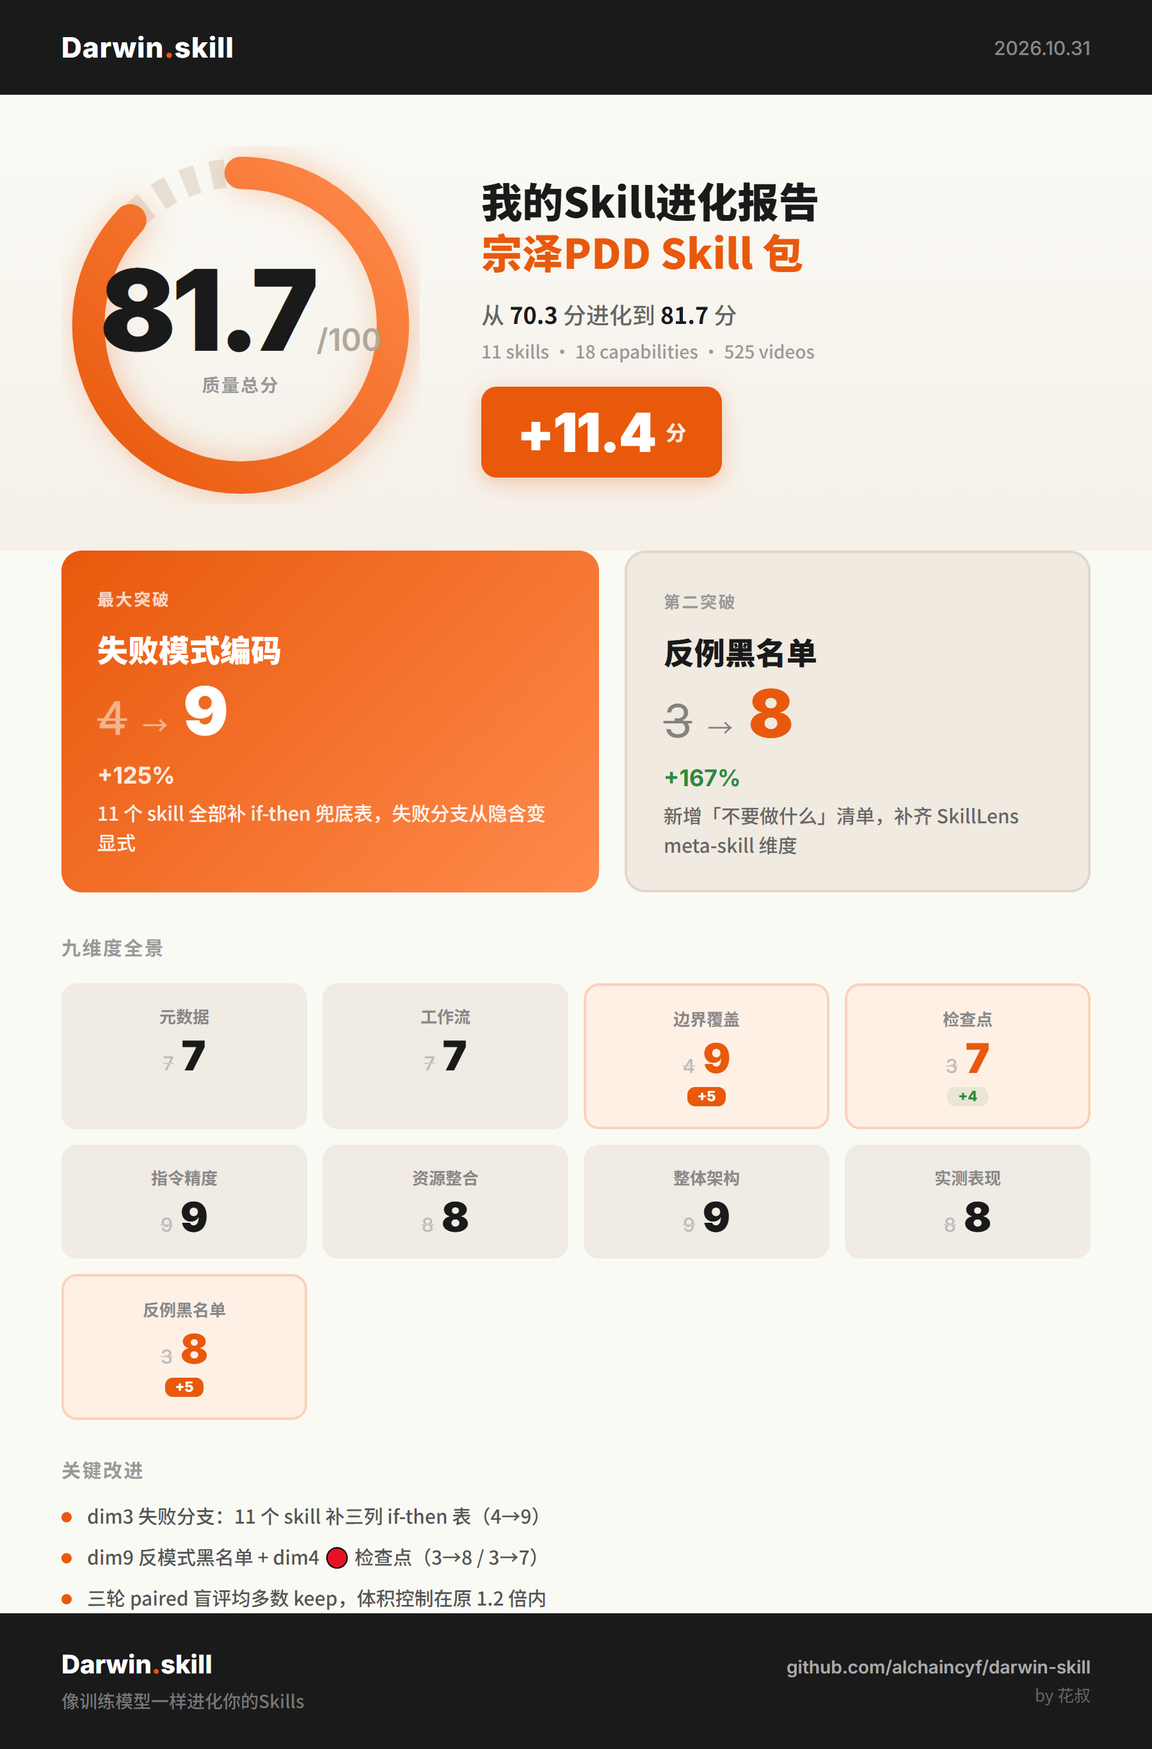
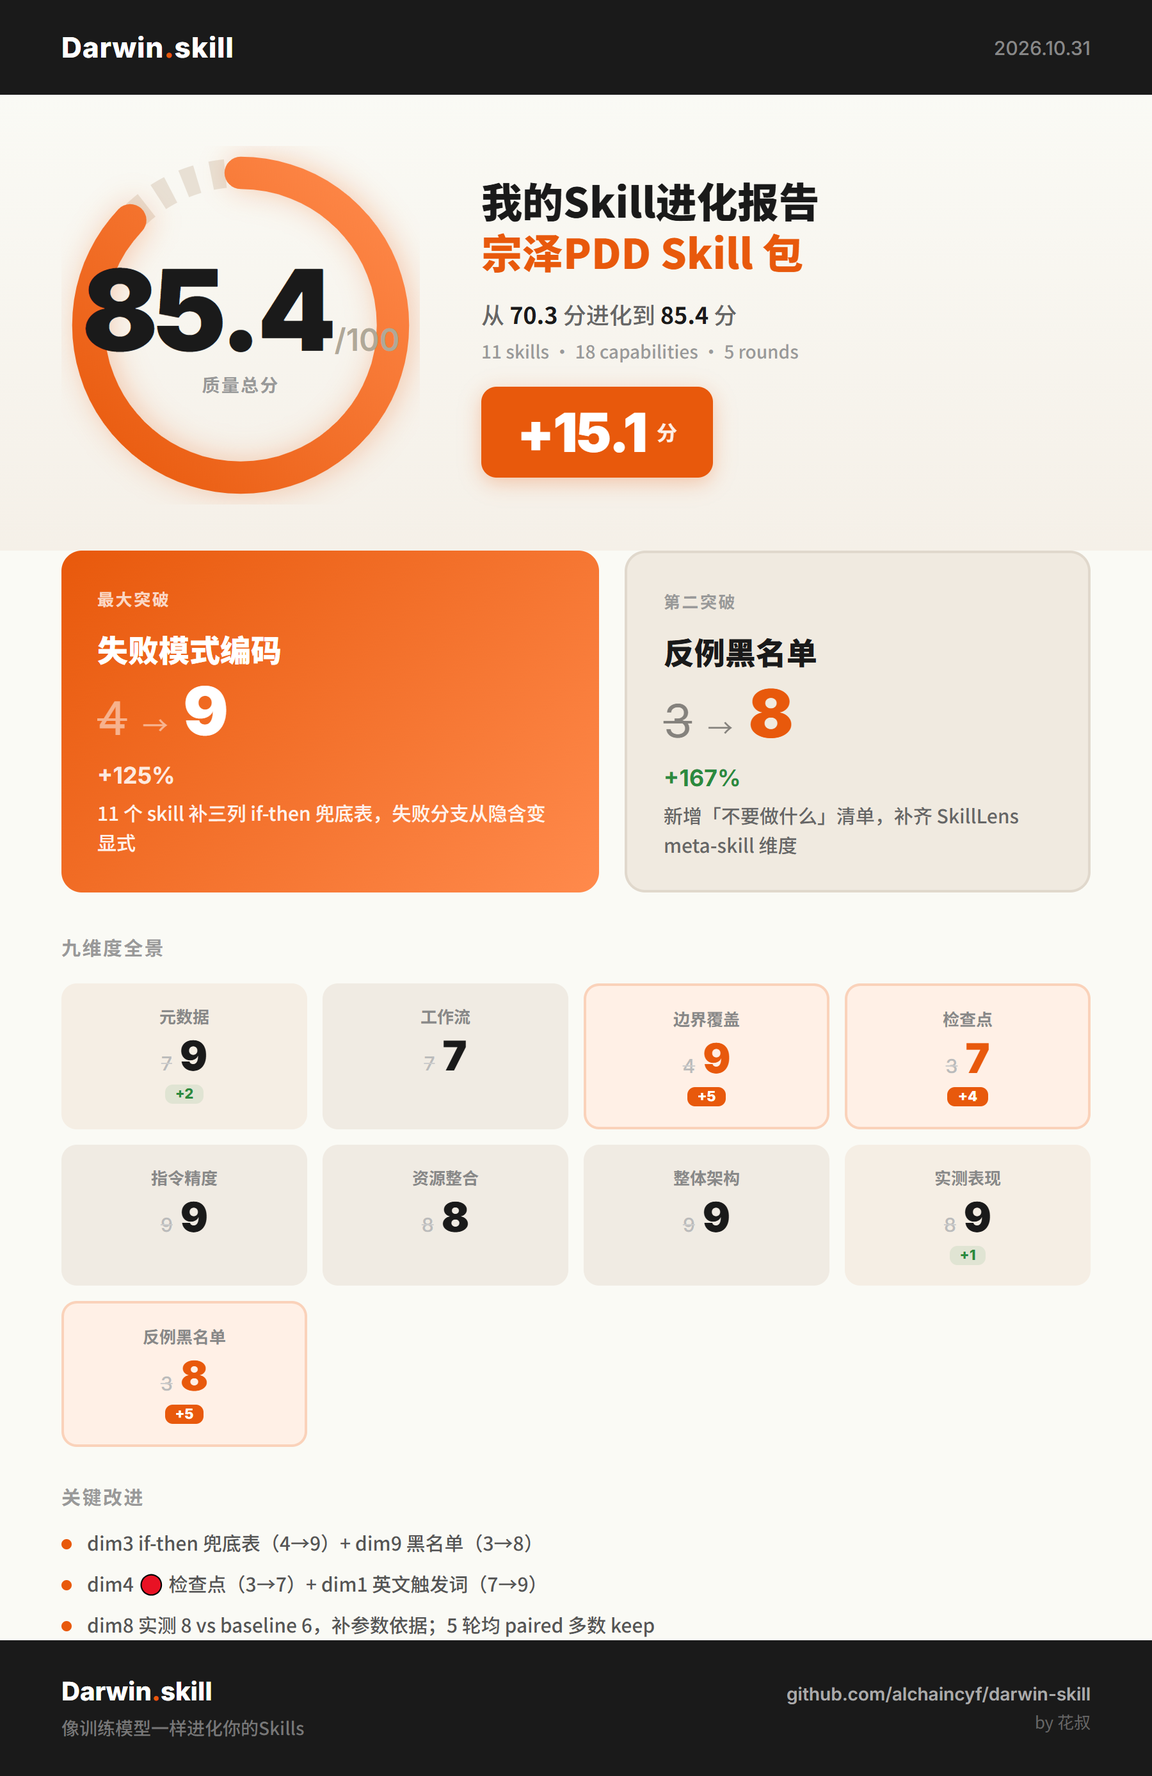
merge: darwin rounds 4-5 (dim8 full_test + dim1 english triggers)

diff --git a/darwin/result-card.html b/darwin/result-card.html
@@ -469,7 +469,7 @@
       </svg>
       <div class="ring-center">
         <div>
-          <span class="ring-score" data-field="score-after">81.7</span><span class="ring-max">/100</span>
+          <span class="ring-score" data-field="score-after">85.4</span><span class="ring-max">/100</span>
         </div>
         <div class="ring-label">质量总分</div>
       </div>
@@ -481,11 +481,11 @@
         <span class="hero-skill-name" data-field="skill-name">宗泽PDD Skill 包</span>
       </div>
       <div class="hero-journey">
-        从 <strong data-field="score-before">70.3</strong> 分进化到 <strong>81.7</strong> 分<br>
-        <span style="color:#999;font-size:14px;" data-field="skill-id">11 skills · 18 capabilities · 525 videos</span>
+        从 <strong data-field="score-before">70.3</strong> 分进化到 <strong>85.4</strong> 分<br>
+        <span style="color:#999;font-size:14px;" data-field="skill-id">11 skills · 18 capabilities · 5 rounds</span>
       </div>
       <div class="delta-badge">
-        <span data-field="score-delta">+11.4</span>
+        <span data-field="score-delta">+15.1</span>
         <span class="delta-badge-label">分</span>
       </div>
     </div>
@@ -502,7 +502,7 @@
         <span class="breakthrough-to" data-field="top1-to">9</span>
       </div>
       <div class="breakthrough-pct" data-field="top1-pct">+125%</div>
-      <div class="breakthrough-story" data-field="top1-story">11 个 skill 全部补 if-then 兜底表，失败分支从隐含变显式</div>
+      <div class="breakthrough-story" data-field="top1-story">11 个 skill 补三列 if-then 兜底表，失败分支从隐含变显式</div>
     </div>
     <div class="breakthrough-card secondary">
       <div class="breakthrough-label">第二突破</div>
@@ -521,51 +521,15 @@
   <div class="dims-section">
     <div class="dims-header">九维度全景</div>
     <div class="dims-grid">
-<div class="dim-cell ">
-        <div class="dim-name">元数据</div>
-        <div class="dim-score-row"><span class="dim-old-score">7</span><span class="dim-score">7</span></div>
-        
-      </div>
-<div class="dim-cell ">
-        <div class="dim-name">工作流</div>
-        <div class="dim-score-row"><span class="dim-old-score">7</span><span class="dim-score">7</span></div>
-        
-      </div>
-<div class="dim-cell hot">
-        <div class="dim-name">边界覆盖</div>
-        <div class="dim-score-row"><span class="dim-old-score">4</span><span class="dim-score">9</span></div>
-        <span class="dim-arrow up-big">+5</span>
-      </div>
-<div class="dim-cell hot">
-        <div class="dim-name">检查点</div>
-        <div class="dim-score-row"><span class="dim-old-score">3</span><span class="dim-score">7</span></div>
-        <span class="dim-arrow up-small">+4</span>
-      </div>
-<div class="dim-cell ">
-        <div class="dim-name">指令精度</div>
-        <div class="dim-score-row"><span class="dim-old-score">9</span><span class="dim-score">9</span></div>
-        
-      </div>
-<div class="dim-cell ">
-        <div class="dim-name">资源整合</div>
-        <div class="dim-score-row"><span class="dim-old-score">8</span><span class="dim-score">8</span></div>
-        
-      </div>
-<div class="dim-cell ">
-        <div class="dim-name">整体架构</div>
-        <div class="dim-score-row"><span class="dim-old-score">9</span><span class="dim-score">9</span></div>
-        
-      </div>
-<div class="dim-cell ">
-        <div class="dim-name">实测表现</div>
-        <div class="dim-score-row"><span class="dim-old-score">8</span><span class="dim-score">8</span></div>
-        
-      </div>
-<div class="dim-cell hot">
-        <div class="dim-name">反例黑名单</div>
-        <div class="dim-score-row"><span class="dim-old-score">3</span><span class="dim-score">8</span></div>
-        <span class="dim-arrow up-big">+5</span>
-      </div>
+<div class="dim-cell warm"><div class="dim-name">元数据</div><div class="dim-score-row"><span class="dim-old-score">7</span><span class="dim-score">9</span></div><span class="dim-arrow up-small">+2</span></div>
+<div class="dim-cell "><div class="dim-name">工作流</div><div class="dim-score-row"><span class="dim-old-score">7</span><span class="dim-score">7</span></div></div>
+<div class="dim-cell hot"><div class="dim-name">边界覆盖</div><div class="dim-score-row"><span class="dim-old-score">4</span><span class="dim-score">9</span></div><span class="dim-arrow up-big">+5</span></div>
+<div class="dim-cell hot"><div class="dim-name">检查点</div><div class="dim-score-row"><span class="dim-old-score">3</span><span class="dim-score">7</span></div><span class="dim-arrow up-big">+4</span></div>
+<div class="dim-cell "><div class="dim-name">指令精度</div><div class="dim-score-row"><span class="dim-old-score">9</span><span class="dim-score">9</span></div></div>
+<div class="dim-cell "><div class="dim-name">资源整合</div><div class="dim-score-row"><span class="dim-old-score">8</span><span class="dim-score">8</span></div></div>
+<div class="dim-cell "><div class="dim-name">整体架构</div><div class="dim-score-row"><span class="dim-old-score">9</span><span class="dim-score">9</span></div></div>
+<div class="dim-cell warm"><div class="dim-name">实测表现</div><div class="dim-score-row"><span class="dim-old-score">8</span><span class="dim-score">9</span></div><span class="dim-arrow up-small">+1</span></div>
+<div class="dim-cell hot"><div class="dim-name">反例黑名单</div><div class="dim-score-row"><span class="dim-old-score">3</span><span class="dim-score">8</span></div><span class="dim-arrow up-big">+5</span></div>
     </div>
   </div>
 
@@ -573,9 +537,9 @@
   <div class="summary-section">
     <div class="summary-header">关键改进</div>
     <div class="summary-items">
-      <div class="summary-item" data-field="improve-1">dim3 失败分支：11 个 skill 补三列 if-then 表（4→9）</div>
-      <div class="summary-item" data-field="improve-2">dim9 反模式黑名单 + dim4 🔴 检查点（3→8 / 3→7）</div>
-      <div class="summary-item" data-field="improve-3">三轮 paired 盲评均多数 keep，体积控制在原 1.2 倍内</div>
+      <div class="summary-item" data-field="improve-1">dim3 if-then 兜底表（4→9）+ dim9 黑名单（3→8）</div>
+      <div class="summary-item" data-field="improve-2">dim4 🔴 检查点（3→7）+ dim1 英文触发词（7→9）</div>
+      <div class="summary-item" data-field="improve-3">dim8 实测 8 vs baseline 6，补参数依据；5 轮均 paired 多数 keep</div>
     </div>
   </div>
 

diff --git a/darwin/optimize4.py b/darwin/optimize4.py
@@ -1,0 +1,74 @@
+# -*- coding: utf-8 -*-
+"""Round 4 (dim8): add short rationale for key thresholds, based on judge feedback."""
+from pathlib import Path
+
+ROOT = Path(__file__).parent.parent
+SKILLS = ROOT / "skills"
+
+RATIONALE = {
+"qilian-sanjieduan": [
+ "500 曝光：系统给新链接的最小测试池，低于它无法判断赛道宽度。",
+ "3 天沉淀：平台数据有 3 天滞后，短于 3 天会把波动当成趋势。",
+ "保本 85%：留出提投产回本空间，又不至于深亏到无法修正。",
+],
+"qilian-wuxiang-zhunbei": [
+ "上下 10% 毛利：覆盖相邻价格带，又不至于跨档导致数据失真。",
+ "五项串行：后一步依赖前一步的数据，跳步会把测试结果误判。",
+],
+"ceijia-celianjie": [
+ "3% 降毛利：约等于一个价格档位的最小可测差；降定价会放大毛利波动。",
+ "3 天间隔：给系统重新匹配赛道的时间，短于 3 天测不出真实反应。",
+],
+"chujia-xingshi-xuanze": [
+ "成交出价买精度：转化率优先，适合带功能性的非标品。",
+ "投产比买 GMV：适合成型后收割，起链接期直接用会丢精度托底。",
+],
+"lengqidong-chujia-fudu": [
+ "5% × 4h：小幅高频，避免被系统判定为异常操作。",
+ "8% × 1.5 天：多次小幅无效后，用更大间隔换探索空间。",
+],
+"xiane-shezhi-fangdakai": [
+ "100–150 / 250–300 / 400+：亏损越深限额越低，先控速再谈放量。",
+ "由小变大：只有临近保本才敢多放，防止一次性花冒。",
+],
+"chesun-juece-baoben": [
+ "85–90% 微亏：离保本近，掉量风险小，回本只需一轮提投产。",
+ "75–80% 一般亏：仍保留回本空间，适合多数中腰部。",
+ "50% 巨亏：接近一半利润，只适合资金极厚的冲量或清仓。",
+],
+"titouchan-jiezou": [
+ "5–10%：幅度太大会被判定异常操作，太小则提不动。",
+ "花费降幅 ≥ 幅度×3：超过等比例掉量，才说明赛道真的站住。",
+ "3 天观测：平台数据有滞后，短于 3 天容易把波动当趋势。",
+],
+"cuofeng-lache": [
+ "1.05–1.2 倍：覆盖净扣费波动区间，又不至于在错峰期亏太多。",
+ "28 天：给系统重新学习出价与人群的时间。",
+],
+"zhitongche-shuju-zhibiao": [
+ "前期转化 / 中期占比 / 后期点击率：对应比价机制的三个阶段。",
+ "五项指标：覆盖量、质、成本、转化、出价竞争力，缺一项就会误判。",
+],
+"zongze-pdd-quanxitu": [
+ "最多 2 张能力卡：避免上下文过载与多卡结论冲突。",
+],
+}
+
+
+def main():
+    changed = 0
+    for slug, items in RATIONALE.items():
+        p = SKILLS / slug / "SKILL.md"
+        if not p.exists():
+            continue
+        text = p.read_text(encoding="utf-8")
+        if "## 参数依据" in text:
+            continue
+        block = "\n## 参数依据（为什么是这些数）\n\n" + "\n".join(f"- {x}" for x in items) + "\n"
+        p.write_text(text.rstrip() + "\n" + block, encoding="utf-8")
+        changed += 1
+    print(f"round 4: {changed} skills updated")
+
+
+if __name__ == "__main__":
+    main()

diff --git a/darwin/optimize5.py b/darwin/optimize5.py
@@ -1,0 +1,40 @@
+# -*- coding: utf-8 -*-
+"""Round 5 (dim1): add English trigger lines to frontmatter descriptions."""
+import re
+from pathlib import Path
+
+ROOT = Path(__file__).parent.parent
+SKILLS = ROOT / "skills"
+
+EN = {
+"zongze-pdd-quanxitu": "Use when a question involves Pinduoduo paid traffic: launching a listing, price testing, bid type, budget caps, loss tolerance, ROAS raising, off-peak switching, ad metrics, price competition, listing splits, or custom/wholesale bidding.",
+"qilian-sanjieduan": "Use when launching a new Pinduoduo listing: the three stages (link recognition -> bid recognition -> paid activation) and their pass criteria (500 impressions, 400/day spend, 85% of break-even).",
+"qilian-wuxiang-zhunbei": "Use before launching a listing: five serial preparations (product screening, competitor price bands, product testing, price testing, listing testing) and what each step must output.",
+"ceijia-celianjie": "Use when testing price versus testing listing: price test holds everything but price equal, listing test varies everything but price; refine with 3% gross-margin cuts every 3 days.",
+"chujia-xingshi-xuanze": "Use when choosing a bid type: conversion bid buys precision, ROAS bid buys GMV; pick the direction (low-to-high or high-to-low) and the switch point.",
+"lengqidong-chujia-fudu": "Use for cold-start bid steps: 5% every 4 hours up to 3 times a day, then 8% every 1-1.5 days when 500 impressions are not reached.",
+"xiane-shezhi-fangdakai": "Use for budget caps: 100-150 below 70% of break-even, 250-300 at 85%, 400+ near break-even; release caps from small to large.",
+"chesun-juece-baoben": "Use when deciding loss tolerance: profit > break-even > slight loss (85-90%) > normal loss (75-80%) > heavy loss (50%); never touch product cost.",
+"titouchan-jiezou": "Use when raising ROAS: 5-10% per step, observe 3 days (2-5), keep going if spend drop is at least 3x the raise, otherwise hold the floor.",
+"cuofeng-lache": "Use for off-peak switching versus pull-push: switch the worst-spend hours to conversion bid at 1.05-1.2x net CPC; after two failures wait 28 days or use pull-push.",
+"zhitongche-shuju-zhibiao": "Use for ad data priorities: spend rate, impressions, CTR, CVR, paid-impression share; early CVR/share, mid share, late CTR.",
+}
+
+changed = 0
+for slug, line in EN.items():
+    p = SKILLS / slug / "SKILL.md"
+    if not p.exists():
+        continue
+    text = p.read_text(encoding="utf-8")
+    if line in text:
+        continue
+    m = re.search(r"(description: \|\n(?:  .+\n)+)", text)
+    if not m:
+        continue
+    block = m.group(1)
+    new_block = block + "  " + line + "\n"
+    text = text.replace(block, new_block, 1)
+    p.write_text(text, encoding="utf-8")
+    changed += 1
+
+print(f"round 5: {changed} skills updated")

diff --git a/skills/qilian-sanjieduan/SKILL.md b/skills/qilian-sanjieduan/SKILL.md
@@ -2,6 +2,7 @@
 name: qilian-sanjieduan
 description: |
   起链接全流程怎么做；起链接分几个阶段；新链接怎么起步。按链接识别→出价识别→付费激活三段推进起链接。
+  Use when launching a new Pinduoduo listing: the three stages (link recognition -> bid recognition -> paid activation) and their pass criteria (500 impressions, 400/day spend, 85% of break-even).
 metadata:
   cangjie.generated-by: cangjie-tools v2.5.0
   cangjie.capability-id: cap.zongze.qilian-sanjieduan
@@ -76,3 +77,9 @@ metadata:
 
 - 🔴 转投产比前：确认已到保本 85%，否则 STOP
 - 🛑 连续两轮无 500 曝光：STOP，回退查内功，不得加大车损
+
+## 参数依据（为什么是这些数）
+
+- 500 曝光：系统给新链接的最小测试池，低于它无法判断赛道宽度。
+- 3 天沉淀：平台数据有 3 天滞后，短于 3 天会把波动当成趋势。
+- 保本 85%：留出提投产回本空间，又不至于深亏到无法修正。

diff --git a/skills/zongze-pdd-quanxitu/SKILL.md b/skills/zongze-pdd-quanxitu/SKILL.md
@@ -2,6 +2,7 @@
 name: zongze-pdd-quanxitu
 description: |
   宗泽PDD实战强付费运营体系来源路由：当问题涉及拼多多起链接、测价、出价、限额、车损、提投产、错峰拉扯、数据指标、比价、裂变、定制批发出价时，路由到对应能力卡；不适用于非拼多多平台或纯自然流场景。
+  Use when a question involves Pinduoduo paid traffic: launching a listing, price testing, bid type, budget caps, loss tolerance, ROAS raising, off-peak switching, ad metrics, price competition, listing splits, or custom/wholesale bidding.
 metadata:
   cangjie.generated-by: cangjie-tools v2.5.0
   cangjie.variant: router
@@ -88,3 +89,7 @@ metadata:
 
 - 🔴 给限额/车损建议前：确认保本投产
 - 🛑 意图超出范围：STOP，明确告知
+
+## 参数依据（为什么是这些数）
+
+- 最多 2 张能力卡：避免上下文过载与多卡结论冲突。

diff --git a/skills/chesun-juece-baoben/SKILL.md b/skills/chesun-juece-baoben/SKILL.md
@@ -2,6 +2,7 @@
 name: chesun-juece-baoben
 description: |
   起链接要不要车损；车损多大。盈利>保本>微亏>巨损分级，巨损只用车损。
+  Use when launching a listing and deciding loss tolerance: profit > break-even > slight loss (85-90%) > normal loss (75-80%) > heavy loss (50%); never touch product cost.
 metadata:
   cangjie.generated-by: cangjie-tools v2.5.0
   cangjie.capability-id: cap.zongze.chesun-juece-baoben
@@ -81,3 +82,9 @@ metadata:
 
 - 🔴 定车损档位前：确认保本投产
 - 🛑 两天无付费速率：STOP，放弃该链接
+
+## 参数依据（为什么是这些数）
+
+- 85–90% 微亏：离保本近，掉量风险小，回本只需一轮提投产。
+- 75–80% 一般亏：仍保留回本空间，适合多数中腰部。
+- 50% 巨亏：接近一半利润，只适合资金极厚的冲量或清仓。

diff --git a/skills/qilian-wuxiang-zhunbei/SKILL.md b/skills/qilian-wuxiang-zhunbei/SKILL.md
@@ -2,6 +2,7 @@
 name: qilian-wuxiang-zhunbei
 description: |
   起链接前要准备什么；怎么选品定价。用五步串行筛选出可起链接的品/价/链接。
+  Use before launching a listing: five serial preparations (product screening, competitor price bands, product testing, price testing, listing testing) and what each step must output.
 metadata:
   cangjie.generated-by: cangjie-tools v2.5.0
   cangjie.capability-id: cap.zongze.qilian-wuxiang-zhunbei
@@ -72,3 +73,8 @@ metadata:
 
 - 🔴 进入起链接前：五项均有结论，否则 STOP
 - 🛑 任一步缺数据：STOP，不得带病起链接
+
+## 参数依据（为什么是这些数）
+
+- 上下 10% 毛利：覆盖相邻价格带，又不至于跨档导致数据失真。
+- 五项串行：后一步依赖前一步的数据，跳步会把测试结果误判。

diff --git a/skills/titouchan-jiezou/SKILL.md b/skills/titouchan-jiezou/SKILL.md
@@ -2,6 +2,7 @@
 name: titouchan-jiezou
 description: |
   怎么提投产；提投产后看几天。每次5-10%、间隔3天、观测3天做赛道取舍。
+  Use when raising ROAS: 5-10% per step, observe 3 days (2-5), keep going if spend drop is at least 3x the raise, otherwise hold the floor.
 metadata:
   cangjie.generated-by: cangjie-tools v2.5.0
   cangjie.capability-id: cap.zongze.titouchan-jiezou
@@ -71,3 +72,9 @@ metadata:
 
 - 🔴 提投产前：确认当前值与保本投产
 - 🛑 连续两轮掉量：STOP，换链接
+
+## 参数依据（为什么是这些数）
+
+- 5–10%：幅度太大会被判定异常操作，太小则提不动。
+- 花费降幅 ≥ 幅度×3：超过等比例掉量，才说明赛道真的站住。
+- 3 天观测：平台数据有滞后，短于 3 天容易把波动当趋势。

diff --git a/skills/ceijia-celianjie/SKILL.md b/skills/ceijia-celianjie/SKILL.md
@@ -2,6 +2,7 @@
 name: ceijia-celianjie
 description: |
   怎么测价；怎么测链接；3%降毛利。测价控变量、测链接放变量，3%降毛利精筛。
+  Use when testing price versus testing listing: price test holds everything but price equal, listing test varies everything but price; refine with 3% gross-margin cuts every 3 days.
 metadata:
   cangjie.generated-by: cangjie-tools v2.5.0
   cangjie.capability-id: cap.zongze.ceijia-celianjie
@@ -71,3 +72,8 @@ metadata:
 
 - 🔴 精筛前：确认初筛已完成
 - 🛑 花费明显上升：STOP，不再降毛利
+
+## 参数依据（为什么是这些数）
+
+- 3% 降毛利：约等于一个价格档位的最小可测差；降定价会放大毛利波动。
+- 3 天间隔：给系统重新匹配赛道的时间，短于 3 天测不出真实反应。

diff --git a/skills/chujia-xingshi-xuanze/SKILL.md b/skills/chujia-xingshi-xuanze/SKILL.md
@@ -2,6 +2,7 @@
 name: chujia-xingshi-xuanze
 description: |
   用成交出价还是投产比；出价方向怎么选。按品类与阶段选成交出价或投产比，并定方向。
+  Use when choosing a bid type: conversion bid buys precision, ROAS bid buys GMV; pick the direction (low-to-high or high-to-low) and the switch point.
 metadata:
   cangjie.generated-by: cangjie-tools v2.5.0
   cangjie.capability-id: cap.zongze.chujia-xingshi-xuanze
@@ -71,3 +72,8 @@ metadata:
 
 - 🔴 切换出价形式前：确认当前阶段与精度需求
 - 🛑 精度连续下滑：STOP，回退成交出价
+
+## 参数依据（为什么是这些数）
+
+- 成交出价买精度：转化率优先，适合带功能性的非标品。
+- 投产比买 GMV：适合成型后收割，起链接期直接用会丢精度托底。

diff --git a/skills/cuofeng-lache/SKILL.md b/skills/cuofeng-lache/SKILL.md
@@ -2,6 +2,7 @@
 name: cuofeng-lache
 description: |
   错峰怎么操作；拉扯怎么做。优先错峰切出价形式，无效再拉扯猛降缓升。
+  Use for off-peak switching versus pull-push: switch the worst-spend hours to conversion bid at 1.05-1.2x net CPC; after two failures wait 28 days or use pull-push.
 metadata:
   cangjie.generated-by: cangjie-tools v2.5.0
   cangjie.capability-id: cap.zongze.cuofeng-lache
@@ -73,3 +74,8 @@ metadata:
 
 - 🔴 错峰前：确认主推广是投产比且每笔利润 ≥4 元
 - 🛑 连续两次错峰无效：STOP，转拉扯
+
+## 参数依据（为什么是这些数）
+
+- 1.05–1.2 倍：覆盖净扣费波动区间，又不至于在错峰期亏太多。
+- 28 天：给系统重新学习出价与人群的时间。

diff --git a/skills/zhitongche-shuju-zhibiao/SKILL.md b/skills/zhitongche-shuju-zhibiao/SKILL.md
@@ -2,6 +2,7 @@
 name: zhitongche-shuju-zhibiao
 description: |
   直通车看哪些数据；数据优先级。前期看转化、中期看占比、后期看点击率。
+  Use for ad data priorities: spend rate, impressions, CTR, CVR, paid-impression share; early CVR/share, mid share, late CTR.
 metadata:
   cangjie.generated-by: cangjie-tools v2.5.0
   cangjie.capability-id: cap.zongze.zhitongche-shuju-zhibiao
@@ -75,3 +76,8 @@ metadata:
 
 - 🔴 下结论前：确认五项指标齐全
 - 🛑 指标互相矛盾：STOP，先平衡变量
+
+## 参数依据（为什么是这些数）
+
+- 前期转化 / 中期占比 / 后期点击率：对应比价机制的三个阶段。
+- 五项指标：覆盖量、质、成本、转化、出价竞争力，缺一项就会误判。
